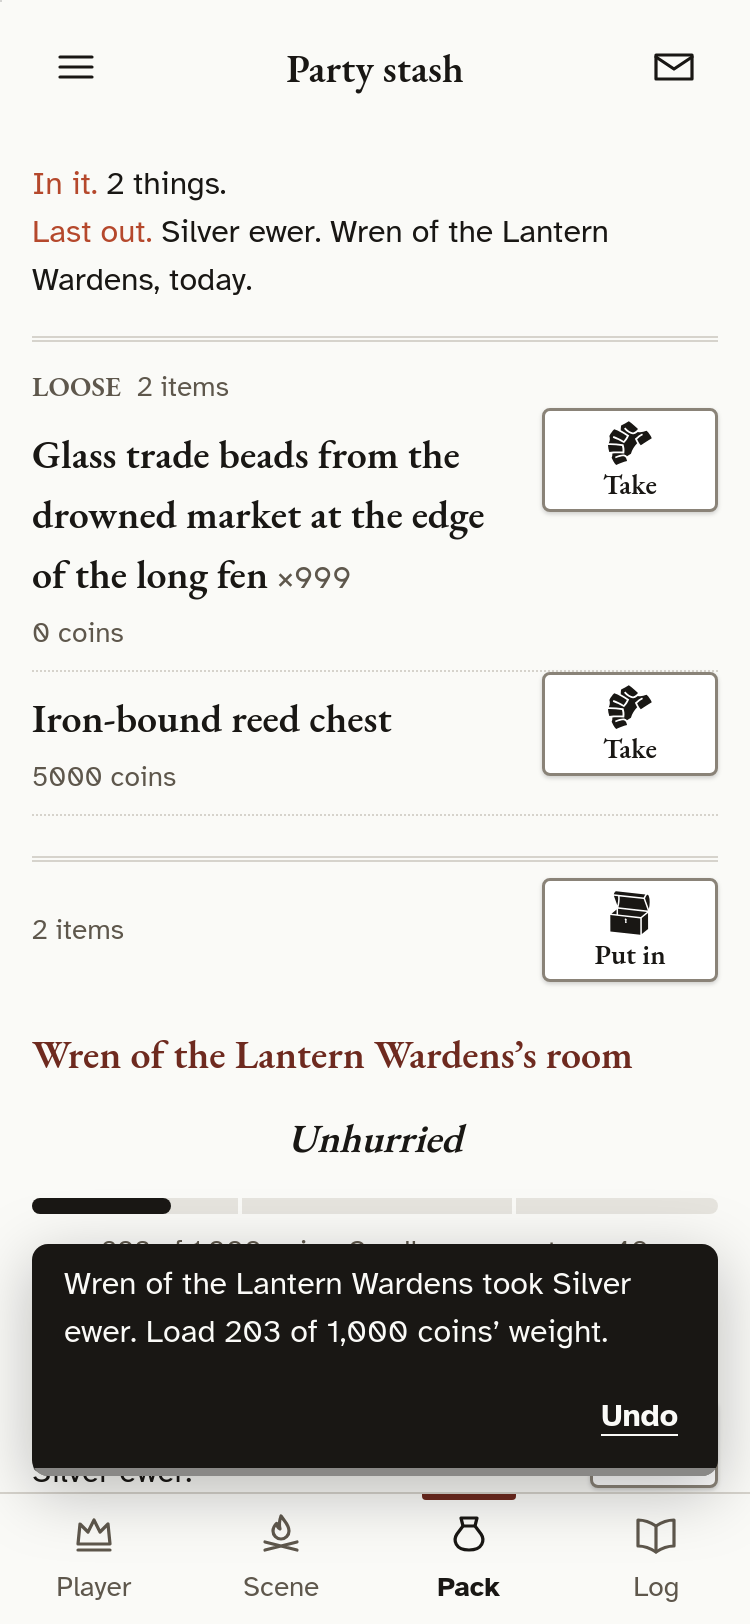
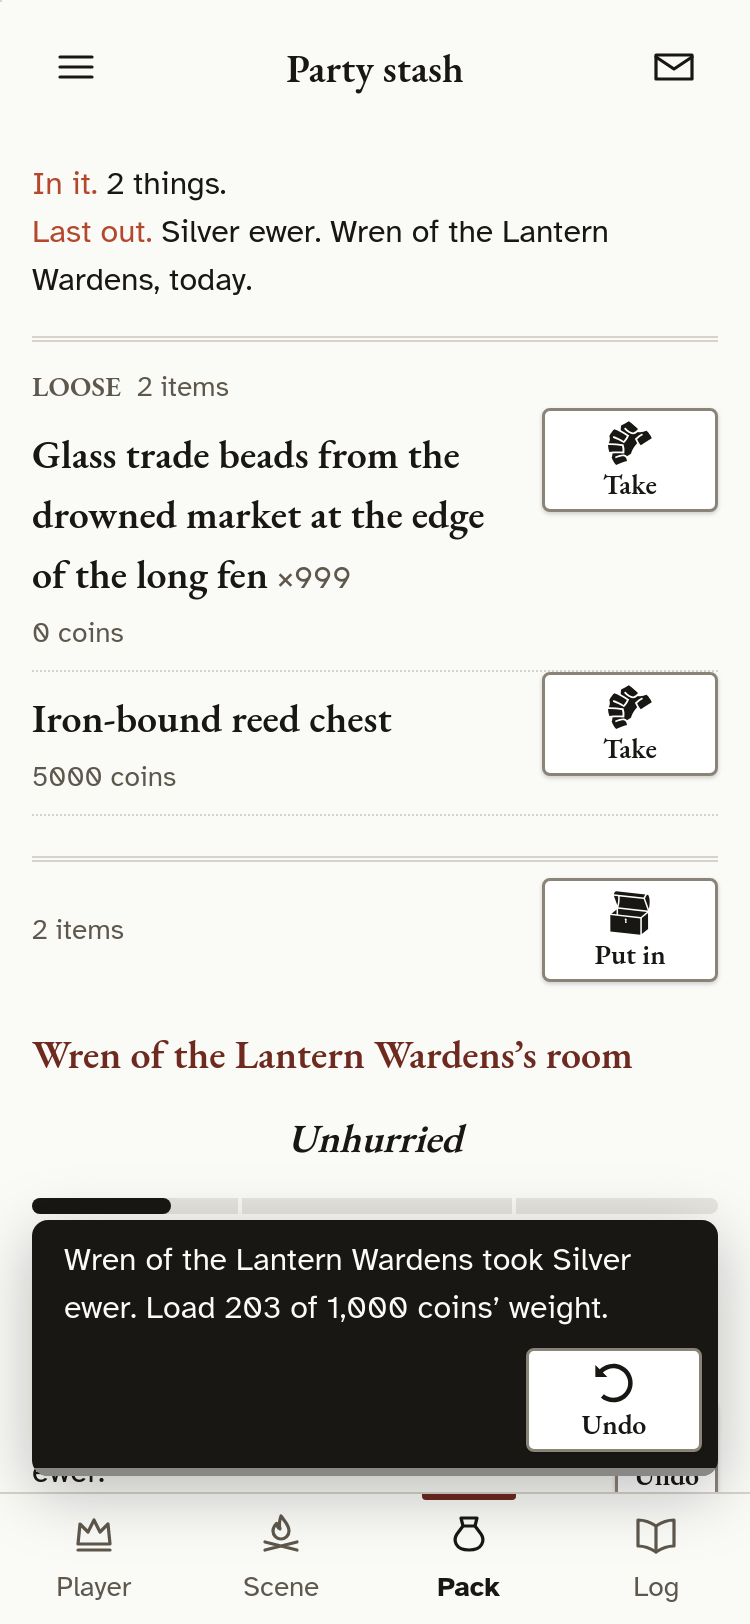
K11-K13 review fixes: Undo only where it can be undone, the arrow Undo, offline on the Take sheet
Recently shows Undo on a player's own line only where the log's own Undo
rule allows it (a give or a take, not a Put in). Undo in Recently and in
Take's toast is a small stacked button with the turned-back arrow (the
toast's new icon Undo variant). The Take sheet's accent explains offline
and names the thing with a capital first; one thing taken reads by the
pack's own name. TAKE_OFFLINE moves to stashTake.ts. The two-long-coins
overflow is a layout fixme (flag 8). Rulings of 24 Nov in 09 and 06.

Claude-Session: https://claude.ai/code/session_013pmZkjcvvQfVV8vh3azz49

Changed region(s): [[0.0307, 0.7389, 0.9507, 0.9236]]

diff --git a/src/app/smoke.test.tsx b/src/app/smoke.test.tsx
@@ -11,7 +11,7 @@ import { forgetFileLinks } from '../core/files.ts';
 import { rememberInviteFromAddress } from './pendingInvite.ts';
 import { ICON_SET } from '../ui/iconSet.ts';
 import { openFullSheetFromMenu } from '../testing/openFullSheet.ts';
-import { moveItem } from '../modules/inventory/inventory.ts';
+import { addItem, moveItem } from '../modules/inventory/inventory.ts';
 
 // The pretend browser can't draw pictures, so shrinking a photo hands back a small stand-in file.
 const shrink = vi.hoisted(() => ({ fail: null as string | null }));
@@ -5791,6 +5791,74 @@ describe('the Pack tab (M4 step 4)', () => {
     } finally {
       offline.mockRestore();
     }
+  });
+
+  // Purpose: a Put in shows no Undo in Recently; a take does, a small stacked button with the turned-back arrow above
+  // the word, and the take's toast has the same (review of #66, finding 1; ⚑ 4 and ⚑ 6, ruled 24 Nov).
+  it('a Put in shows no Undo in Recently; a take does, with the turned-back arrow, as does its toast (K11, K12)', async () => {
+    const { sam, wren, campaign, line } = packWorld('coin');
+    line(null, 'Silver ewer', { weight_coin: 30 });
+    const stashCarrier = { campaignId: campaign, actorId: null, locationId: `location-stash-${campaign}`, ownerUserId: null, archived: false };
+    const sams = { id: sam, roles: { [campaign]: 'player' as const } };
+    const item = { libraryEntryId: null, name: 'Reed basket', category: 'gear', weightCoin: 5, slots: null, stack: 1 };
+    expect((await addItem.run(world.db, sams, { carrier: stashCarrier, item, qty: 1, howGot: 'found' })).ok).toBe(true);
+    const user = openApp();
+    await openPack(user);
+    const stash = await openStash(user);
+    await user.click(stash.getByRole('button', { name: 'Take Silver ewer' }));
+    await waitFor(() => expect(world.tables.inventory_lines.find((l) => l.name === 'Silver ewer')).toMatchObject({ actor_id: wren }));
+    const toast = await waitFor(() => document.querySelector<HTMLElement>('.toast')!);
+    const toastUndo = within(toast).getByRole('button', { name: 'Undo' });
+    expect(toastUndo.className).toContain('stacked-button');
+    expect(toastUndo.querySelector('svg')).toBeTruthy();
+    const recent = within(await stash.findByRole('region', { name: 'Recently' }));
+    await recent.findByText('Wren took Silver ewer.');
+    expect(recent.getByText('Wren put in Reed basket.')).toBeTruthy();
+    expect(recent.queryByRole('button', { name: 'Undo: Wren put in Reed basket.' })).toBeNull();
+    const undo = recent.getByRole('button', { name: 'Undo: Wren took Silver ewer.' });
+    expect(undo.className).toContain('stacked-button');
+    expect(undo.className).toContain('button-secondary');
+    expect(undo.textContent).toBe('Undo');
+    expect(undo.querySelector('svg')).toBeTruthy();
+    await user.click(undo);
+    await waitFor(() => expect(world.tables.inventory_lines.find((l) => l.name === 'Silver ewer')).toMatchObject({ actor_id: null, location_id: `location-stash-${campaign}` }));
+  });
+
+  // Purpose: offline, the Take sheet's accent stays a button and a tap says why it waits; nothing is written (review of
+  // #66, nit 3, as the Coin sheet's).
+  it('offline, the Take sheet’s accent explains and nothing moves (K12)', async () => {
+    const { wren, line } = packWorld('coin');
+    line(null, 'Torches', { qty: 6, stack: 10, weight_coin: 10, item_data: { unitName: 'torch', pluralName: 'torches' } });
+    const user = openApp();
+    await openPack(user);
+    const stash = await openStash(user);
+    await user.click(stash.getByRole('button', { name: 'Take Torches' }));
+    const sheet = within(await screen.findByRole('dialog', { name: 'Take' }));
+    await user.type(sheet.getByLabelText('Torches'), '2');
+    const offline = vi.spyOn(navigator, 'onLine', 'get').mockReturnValue(false);
+    try {
+      window.dispatchEvent(new Event('offline'));
+      await user.click(sheet.getByRole('button', { name: 'Take 2 torches' }));
+      expect(await screen.findByText('You’re offline. Taking from the stash needs the party’s latest, so it waits until you’re back.')).toBeTruthy();
+      expect(world.tables.inventory_lines.filter((l) => l.actor_id === wren)).toEqual([]);
+      expect(world.tables.inventory_lines.find((l) => l.id === 'line-torches')).toMatchObject({ qty: 6 });
+    } finally {
+      offline.mockRestore();
+    }
+  });
+
+  // Purpose: the Take sheet names the thing as everywhere else, its first letter a capital (`shownName`), whatever
+  // case the line was saved in (review of #66, nit 5).
+  it('the Take sheet names the thing as the rows do, a capital first (K12)', async () => {
+    const { line } = packWorld('coin');
+    line(null, 'reed arrows', { qty: 3, stack: 20 });
+    const user = openApp();
+    await openPack(user);
+    const stash = await openStash(user);
+    await user.click(stash.getByRole('button', { name: 'Take reed arrows' }));
+    const sheet = within(await screen.findByRole('dialog', { name: 'Take' }));
+    expect(sheet.getByLabelText('Reed arrows')).toBeTruthy();
+    expect(sheet.queryByText('reed arrows')).toBeNull();
   });
 
   // Purpose: an empty stash says so in one sentence and keeps Put in; offline, the stash says it is shown as last read,

diff --git a/src/modules/inventory/stashHistory.ts b/src/modules/inventory/stashHistory.ts
@@ -17,6 +17,7 @@ import { readClock, type TimeUnits } from '../expedition/clock.ts';
 import { allRows } from '../library/allRows.ts';
 import type { Db } from '../../core/supabase.ts';
 import type { LogEvent } from '../../core/events.ts';
+import { mayUndo } from '../../core/undo.ts';
 
 const isRecord = (value: unknown): value is Record<string, unknown> => typeof value === 'object' && value !== null && !Array.isArray(value);
 const text = (value: unknown): string | null => (typeof value === 'string' && value ? value : null);
@@ -54,6 +55,13 @@ export interface StashMove {
   eventId: string;
   /** The person who did it (null when the log can't say): a player's line made straight on the stash names no character. */
   userId: string | null;
+  /** The log event's type ("inventory.move", "inventory.add"). */
+  type: string;
+  /**
+   * Whether the log's Undo may undo it, by the app's one rule (`mayUndo`, as the log's own lines): a give or a take
+   * (inventory.move) may; a line made straight on the stash (inventory.add, Put in) may not.
+   */
+  undoable: boolean;
 }
 
 export interface StashHistory {
@@ -93,6 +101,11 @@ export function stashHistory(events: readonly LogEvent[], ctx: StashContext): St
   const whenOf = (e: LogEvent): StashWhen => whenAt(e, clocks, ctx);
   const whoOf = (e: LogEvent, characterId: string | null): StashWho => (e.actorUserId && ctx.gmUserIds.has(e.actorUserId) ? { gm: true } : { gm: false, characterId });
 
+  // The event's type, and whether its request may be undone (the request's own changes, as the log groups them).
+  const about = (e: LogEvent) => {
+    const request = e.requestId === null ? [e] : events.filter((r) => r.requestId === e.requestId);
+    return { type: e.type, undoable: mayUndo(e.type, request) };
+  };
   const moves: StashMove[] = [];
   for (const e of lines) {
     const lineId = e.targetId!;
@@ -105,14 +118,14 @@ export function stashHistory(events: readonly LogEvent[], ctx: StashContext): St
       // the stash's last out, with who did it (a player's character the log can't name: none, as for a line made there).
       if (carrierOf(e.before).locationId === ctx.stashId) {
         const qty = typeof e.before!.qty === 'number' ? e.before!.qty : null;
-        moves.push({ lineId, direction: 'out', who: whoOf(e, null), when: whenOf(e), qty, name: text(e.before!.name), seq: e.seq, leftPlay: true, eventId: e.id, userId: e.actorUserId });
+        moves.push({ lineId, direction: 'out', who: whoOf(e, null), when: whenOf(e), qty, name: text(e.before!.name), seq: e.seq, leftPlay: true, eventId: e.id, userId: e.actorUserId, ...about(e) });
       }
       continue;
     }
     // Part of a stack on the stash used up or dropped (counted down, the line stays): that many left play.
     const countedDown = (e.type === 'inventory.remove' || e.type === 'item.use') && isRecord(e.before) && isRecord(e.after) && !changed;
     if (countedDown && typeof e.before!.qty === 'number' && typeof e.after!.qty === 'number' && e.after!.qty < e.before!.qty && carrierNow(lineId, e.seq, lines) === ctx.stashId) {
-      moves.push({ lineId, direction: 'out', who: whoOf(e, null), when: whenOf(e), qty: e.before!.qty - e.after!.qty, name: null, seq: e.seq, leftPlay: true, eventId: e.id, userId: e.actorUserId });
+      moves.push({ lineId, direction: 'out', who: whoOf(e, null), when: whenOf(e), qty: e.before!.qty - e.after!.qty, name: null, seq: e.seq, leftPlay: true, eventId: e.id, userId: e.actorUserId, ...about(e) });
       continue;
     }
     const before = carrierOf(e.before);
@@ -126,10 +139,10 @@ export function stashHistory(events: readonly LogEvent[], ctx: StashContext): St
       // A part split off elsewhere and handed to the stash: its count is the made row's.
       const madeRow = made ? e.after : lines.find((m) => m.targetId === lineId && m.before === null && m.seq < e.seq)?.after;
       const qty = !made && madeRow && splitBefore(e, lines) && typeof madeRow.qty === 'number' ? madeRow.qty : null;
-      moves.push({ lineId, direction: 'in', who: whoOf(e, made ? null : before.actorId), when: whenOf(e), qty, name: text(madeRow?.name), seq: e.seq, leftPlay: false, eventId: e.id, userId: e.actorUserId });
+      moves.push({ lineId, direction: 'in', who: whoOf(e, made ? null : before.actorId), when: whenOf(e), qty, name: text(madeRow?.name), seq: e.seq, leftPlay: false, eventId: e.id, userId: e.actorUserId, ...about(e) });
     } else if (outOfStash) {
       const madeRow = lines.find((m) => m.targetId === lineId && m.before === null && m.seq < e.seq && splitTakenAway(m, lines))?.after;
-      moves.push({ lineId, direction: 'out', who: whoOf(e, after.actorId), when: whenOf(e), qty: madeRow && typeof madeRow.qty === 'number' ? madeRow.qty : null, name: text(madeRow?.name), seq: e.seq, leftPlay: false, eventId: e.id, userId: e.actorUserId });
+      moves.push({ lineId, direction: 'out', who: whoOf(e, after.actorId), when: whenOf(e), qty: madeRow && typeof madeRow.qty === 'number' ? madeRow.qty : null, name: text(madeRow?.name), seq: e.seq, leftPlay: false, eventId: e.id, userId: e.actorUserId, ...about(e) });
     }
   }
 

diff --git a/src/app/StashScreen.tsx b/src/app/StashScreen.tsx
@@ -20,7 +20,8 @@ import { campaignUnits } from '../modules/expedition/play.ts';
 import { loadClockNow } from '../modules/expedition/lightPlay.ts';
 import type { InventoryLine, NamedCarrier } from '../modules/inventory/inventory.ts';
 import { loadStashHistory, whoWords, type StashHistory, type StashMove } from '../modules/inventory/stashHistory.ts';
-import { asksHowMany, readTake, takeLabel, takeRefusal } from '../modules/inventory/stashTake.ts';
+import { shownName } from '../modules/inventory/packView.ts';
+import { asksHowMany, readTake, TAKE_OFFLINE, takeLabel, takeRefusal } from '../modules/inventory/stashTake.ts';
 import { Dialog } from '../ui/Dialog.tsx';
 import { Chip, StackedButton, WarningLine, WarningSign } from '../ui/parts.tsx';
 import { useOnline } from '../ui/creation.tsx';
@@ -36,9 +37,6 @@ import './PurseSheet.css';
 /** How many of the stash's recent lines show (PK4 draws three, PK9b four). */
 const RECENT = 4;
 
-/** Offline, a tap on Take says why it waits (PK7b; question 6). */
-export const TAKE_OFFLINE = 'You’re offline. Taking from the stash needs the party’s latest, so it waits until you’re back.';
-
 /**
  * A stack's "Take" sheet (PK4b): the thing named once, what the stash has under it, a box (a quiet 0 until typed), and
  * one accent naming the amount. The Coin sheet's row and box (`.purse-sheet__row`), for a thing.
@@ -47,8 +45,12 @@ function TakeSheet({ line, onClose, onTake }: { line: InventoryLine; onClose: ()
   const box = useId();
   const [typed, setTyped] = useState('');
   const [refusal, setRefusal] = useState<string | null>(null);
-  const name = line.name;
+  const online = useOnline();
+  const show = useToast();
+  const name = shownName(line.name);
   function take() {
+    // Offline the accent stays a button and says why it waits; nothing is written (as the Coin sheet's, PurseSheet).
+    if (!online) return show({ text: TAKE_OFFLINE });
     const n = readTake(typed, line.qty);
     if (n === null) return setRefusal(takeRefusal(typed, line.qty));
     onTake(n);
@@ -260,11 +262,11 @@ export function StashScreen({
                   <span>{words}</span>
                   <span className="auth__meta">{recentWhen(move)}</span>
                 </span>
-                {/* Your own line keeps Undo while it can be undone (PK9b); the database says when it can't. */}
-                {move.userId === user.id && (
-                  <button type="button" className="button-secondary button-secondary--small stash__undo" aria-label={`Undo: ${words}`} onClick={() => void undo(move)}>
-                    Undo
-                  </button>
+                {/* Your own line keeps Undo while it can be undone (PK9b): by the log's own rule (`mayUndo`), a give or a
+                    take may, a Put in may not; the database still says when the thing has moved on since. The turned-back
+                    arrow above the word (ic-2; ⚑ 4, ruled 24 Nov). */}
+                {move.userId === user.id && move.undoable && (
+                  <StackedButton icon="anticlockwise-rotation" label="Undo" className="stash__undo" aria-label={`Undo: ${words}`} onClick={() => void undo(move)} />
                 )}
               </li>
             ))}

diff --git a/tests/layout/stashCoin.spec.ts b/tests/layout/stashCoin.spec.ts
@@ -6,6 +6,7 @@
 //   3. "Take coin": the stash's amount under each coin, the accent naming the amount, a refusal under the row with
 //      the warning sign, and the toast in the log line's words with Undo.
 //   4. Messy coin (long names, 999) wraps without sideways scrolling; offline, Take… stays a row and explains.
+//   5. (fixme, ⚑ 8 of #66) Two long-named coins at once: the accent's label stays inside its button.
 //   Every scene: no sideways scrolling, every target at least 44 px, readable text, no serious accessibility problem.
 // The pictures it saves (deviceScaleFactor 2) are the as-built pictures beside PC6, PC6b and PK4 in the pull request.
 import { expect, test, type Page } from '@playwright/test';
@@ -132,6 +133,20 @@ for (const size of SIZES) {
           },
         },
       ];
+      // Purpose: with two long-named coins typed at once, the accent's label stays inside the button at 375 px. Known to
+      // fail: the shared Coin sheet keeps its amount on one line (the lead's rule, 2026-11-14), so it runs past the
+      // edge; ⚑ 8 of #66 asks whether to let it wrap (as K12's Take does), shorten it, or leave it.
+      test.fixme('stash-coin-two-long: the accent naming two long coins stays inside its button', async ({ page }) => {
+        await openStash(page, 'stash=1&coin=messy');
+        await openTake(page);
+        const sheet = page.getByRole('dialog');
+        await sheet.getByRole('textbox', { name: 'Moon-silver crowns of the Old Causeway' }).fill('1');
+        await sheet.getByRole('textbox', { name: 'Heron marks' }).fill('999');
+        const go = sheet.locator('.purse-sheet__go');
+        await expect(go).toBeVisible();
+        expect(await go.evaluate((el) => el.scrollWidth <= el.clientWidth + 1)).toBe(true);
+      });
+
       for (const scene of scenes) {
         test(`${scene.name}: no sideways scrolling, taps at least 44px, readable text, accessible`, async ({ page }) => {
           await openStash(page, scene.query);

diff --git a/src/modules/inventory/stashHistory.test.ts b/src/modules/inventory/stashHistory.test.ts
@@ -65,6 +65,24 @@ describe('in and out (pk-4)', () => {
     ]);
   });
 
+  // Purpose: a Put in (a line made straight on the stash, inventory.add) may not be undone from Recently, by the log's
+  // own Undo rule; a take (inventory.move), whole or part, may (review of #66, finding 1).
+  it('a Put in is not undoable; a take, whole or part, is', () => {
+    seq = 0;
+    const events = [
+      ev({ targetId: 'line-basket', type: 'inventory.add', requestId: 'req-1', before: null, after: { id: 'line-basket', actor_id: null, location_id: STASH, name: 'Reed basket', qty: 1 } }),
+      ev({ targetId: 'line-chest', before: { actor_id: null, location_id: STASH }, after: { actor_id: TAM, location_id: null } }),
+      ev({ targetId: 'line-part', requestId: 'req-3', before: null, after: { id: 'line-part', actor_id: null, location_id: STASH, name: 'Torches', qty: 2 } }),
+      ev({ targetId: 'line-part', requestId: 'req-3', before: { actor_id: null, location_id: STASH }, after: { actor_id: TAM, location_id: null } }),
+    ];
+    const h = stashHistory(events, ctx({ lineIds: ['line-basket'] }));
+    expect(h.moves.map((m) => [m.lineId, m.direction, m.type, m.undoable])).toEqual([
+      ['line-basket', 'in', 'inventory.add', false],
+      ['line-chest', 'out', 'inventory.move', true],
+      ['line-part', 'out', 'inventory.move', true],
+    ]);
+  });
+
   // Purpose: a thing moved from a character into the stash reads who put it in (that character) and when, on its row
   // and as the stash's last thing in.
   it('a thing put in reads who and when, on its row and as the last in', () => {

diff --git a/src/app/PurseSheet.tsx b/src/app/PurseSheet.tsx
@@ -24,12 +24,12 @@ import { latestChange, undoChange } from '../core/undo.ts';
 import { amountWords, coinLine, type Denomination } from '../modules/inventory/coinWords.ts';
 import type { NamedCarrier } from '../modules/inventory/inventory.ts';
 import { addCoin, AMOUNT, giveCoin, removeCoin, spendCoin, takeCoin, type CoinNames, type Coins } from '../modules/inventory/purse.ts';
+import { TAKE_OFFLINE } from '../modules/inventory/stashTake.ts';
 import { useOnline } from '../ui/creation.tsx';
 import { Dialog } from '../ui/Dialog.tsx';
 import { DestinationList, ListRow, RowList, StackedButton, WarningLine } from '../ui/parts.tsx';
 import { useToast } from '../ui/ToastHost.tsx';
 import { registry } from './services.ts';
-import { TAKE_OFFLINE } from './StashScreen.tsx';
 import './PurseSheet.css';
 
 /** One coin's row in a sheet: the setting's coin (or a key it doesn't list, as written) and how many are held. */
@@ -207,7 +207,8 @@ export function PurseSheet({
     const type = page === 'add' ? addCoin.name : page === 'remove' ? removeCoin.name : page === 'take' ? takeCoin.name : page === 'spend' ? spendCoin.name : giveCoin.name;
     onClose();
     onChanged();
-    show({ text: words, onUndo: () => void undo(type) });
+    // The stash's Take: Undo with the turned-back arrow above the word, as a thing's take (⚑ 6, ruled 24 Nov).
+    show({ text: words, onUndo: () => void undo(type), ...(page === 'take' ? { undoIcon: true } : {}) });
   }
 
   const refusalLine = (key: string) =>

diff --git a/src/modules/inventory/stashTake.ts b/src/modules/inventory/stashTake.ts
@@ -8,6 +8,9 @@ import type { CarriedLoad } from './encumbrance.ts';
 import type { InventoryLine } from './inventory.ts';
 import { countWords, shownName } from './packView.ts';
 
+/** Offline, a tap on Take says why it waits (PK7b; question 6): the stash's things and its coin alike. */
+export const TAKE_OFFLINE = 'You’re offline. Taking from the stash needs the party’s latest, so it waits until you’re back.';
+
 const num = (n: number) => n.toLocaleString('en');
 const outOf = (n: number, most: number | null) => `${num(n)}${most !== null ? ` of ${num(most)}` : ''}`;
 
@@ -22,7 +25,8 @@ export function takeLoadWords(load: CarriedLoad): string | null {
  * line of its own ("Over the limit: 1,263 of 1,200."), and the take stands (told, not blocked; ⚑ 18).
  */
 export function takeToast(taker: string, line: Pick<InventoryLine, 'name' | 'details'>, qty: number, load: CarriedLoad): { text: string; warning: string | null } {
-  const text = `${taker} took ${countWords(line, qty)}.`;
+  // One thing by the pack's own name ("Wren took Torch."; ⚑ 5 ruled A, 24 Nov), more by the pack's count words.
+  const text = `${taker} took ${qty === 1 ? shownName(line.name) : countWords(line, qty)}.`;
   if ((load.mode === 'coin' || load.mode === 'slot') && load.over) return { text, warning: `Over the limit: ${outOf(load.load, load.capacity)}.` };
   const said = takeLoadWords(load);
   return { text: said ? `${text} ${said}` : text, warning: null };

diff --git a/src/modules/inventory/stashTake.test.ts b/src/modules/inventory/stashTake.test.ts
@@ -120,6 +120,13 @@ describe('Take’s words (K12, frame PK4b)', () => {
     expect(takeToast('Wren', { name: 'Reed rope', details: {} }, 3, { mode: 'slot', load: 9, capacity: 12, tier: tier('Laden'), over: false, overMax: '' }).text).toBe('Wren took Reed rope ×3. Load 9 of 12 slots.');
   });
 
+  // Purpose: one thing taken reads by the pack's own name, never its piece's word ("Wren took Torch.", not "torch";
+  // ⚑ 5 ruled A, 24 Nov); more than one keeps the count words.
+  it('names one thing by the pack’s own name', () => {
+    expect(takeToast('Wren', torch, 1, { mode: 'none' }).text).toBe('Wren took Torch.');
+    expect(takeToast('Wren', { name: 'reed whistle', details: {} }, 1, { mode: 'none' }).text).toBe('Wren took Reed whistle.');
+  });
+
   // Purpose: a taker put over the limit is told in the toast, on a warning line of its own, and the take is not stopped.
   it('warns past the limit, and says the thing alone where no load is counted', () => {
     expect(takeToast('Wren', { name: 'Reed chest', details: {} }, 1, coinLoad(1263, true))).toEqual({ text: 'Wren took Reed chest.', warning: 'Over the limit: 1,263 of 1,200.' });

diff --git a/src/ui/parts.tsx b/src/ui/parts.tsx
@@ -893,8 +893,14 @@ export function Toast({
   seconds = TOAST_SECONDS,
   error = false,
   warning,
+  undoIcon = false,
 }: {
   text: string;
+  /**
+   * The **icon Undo** variant (K12, the lead's ruling on ⚑ 6 of #66, 24 Nov): Undo as a small stacked button, the set's
+   * turned-back arrow (ic-2) above the word, never underlined (fl-1). The stash's Take uses it.
+   */
+  undoIcon?: boolean;
   /** The **warning** variant (K12, PK4b): a line of its own under the words, the warning sign first ("Over the limit: …"). */
   warning?: string;
   onUndo?: () => void;
@@ -922,7 +928,9 @@ export function Toast({
           </span>
         )}
       </span>
-      {onUndo ? (
+      {onUndo && undoIcon ? (
+        <StackedButton icon="anticlockwise-rotation" label="Undo" className="toast__undo-icon" onClick={onUndo} />
+      ) : onUndo ? (
         <button type="button" className="toast__undo" onClick={onUndo}>
           Undo
         </button>

diff --git a/src/ui/ToastHost.tsx b/src/ui/ToastHost.tsx
@@ -13,6 +13,8 @@ export interface ToastRequest {
   error?: boolean;
   /** A warning of its own under the words, with the warning sign: the taker put over the limit (K12, PK4b). */
   warning?: string;
+  /** The **icon Undo** variant: Undo as a small stacked button, the turned-back arrow above the word (the stash's Take, ⚑ 6). */
+  undoIcon?: boolean;
 }
 
 type Show = (toast: ToastRequest) => void;
@@ -143,6 +145,7 @@ export function ToastHost({ children }: { children: ReactNode }) {
             text={current.text}
             warning={current.warning}
             error={current.error}
+            undoIcon={current.undoIcon}
             onDone={done}
             onUndo={
               current.onUndo

diff --git a/src/ui/parts.css b/src/ui/parts.css
@@ -749,6 +749,13 @@
   cursor: pointer;
 }
 
+/* The icon Undo variant (K12, ⚑ 6 of #66): the small stacked button at the right, the arrow above the word; a light
+   button on the ink toast, its own colours, no underline (fl-1). It clears the draining bar under it. */
+.toast__undo-icon {
+  margin-inline-start: auto;
+  margin-block-end: var(--space-1);
+}
+
 .toast__bar {
   position: absolute;
   inset-inline: 0;

diff --git a/src/app/PackScreen.tsx b/src/app/PackScreen.tsx
@@ -569,6 +569,8 @@ export function PackScreen({
       show({
         text: said.text,
         ...(said.warning ? { warning: said.warning } : {}),
+        // Undo with the turned-back arrow above the word (⚑ 6, ruled 24 Nov).
+        undoIcon: true,
         onUndo: () =>
           void (async () => {
             const eventId = await latestChange(db, campaign.id, moveItem.name, user.id);
